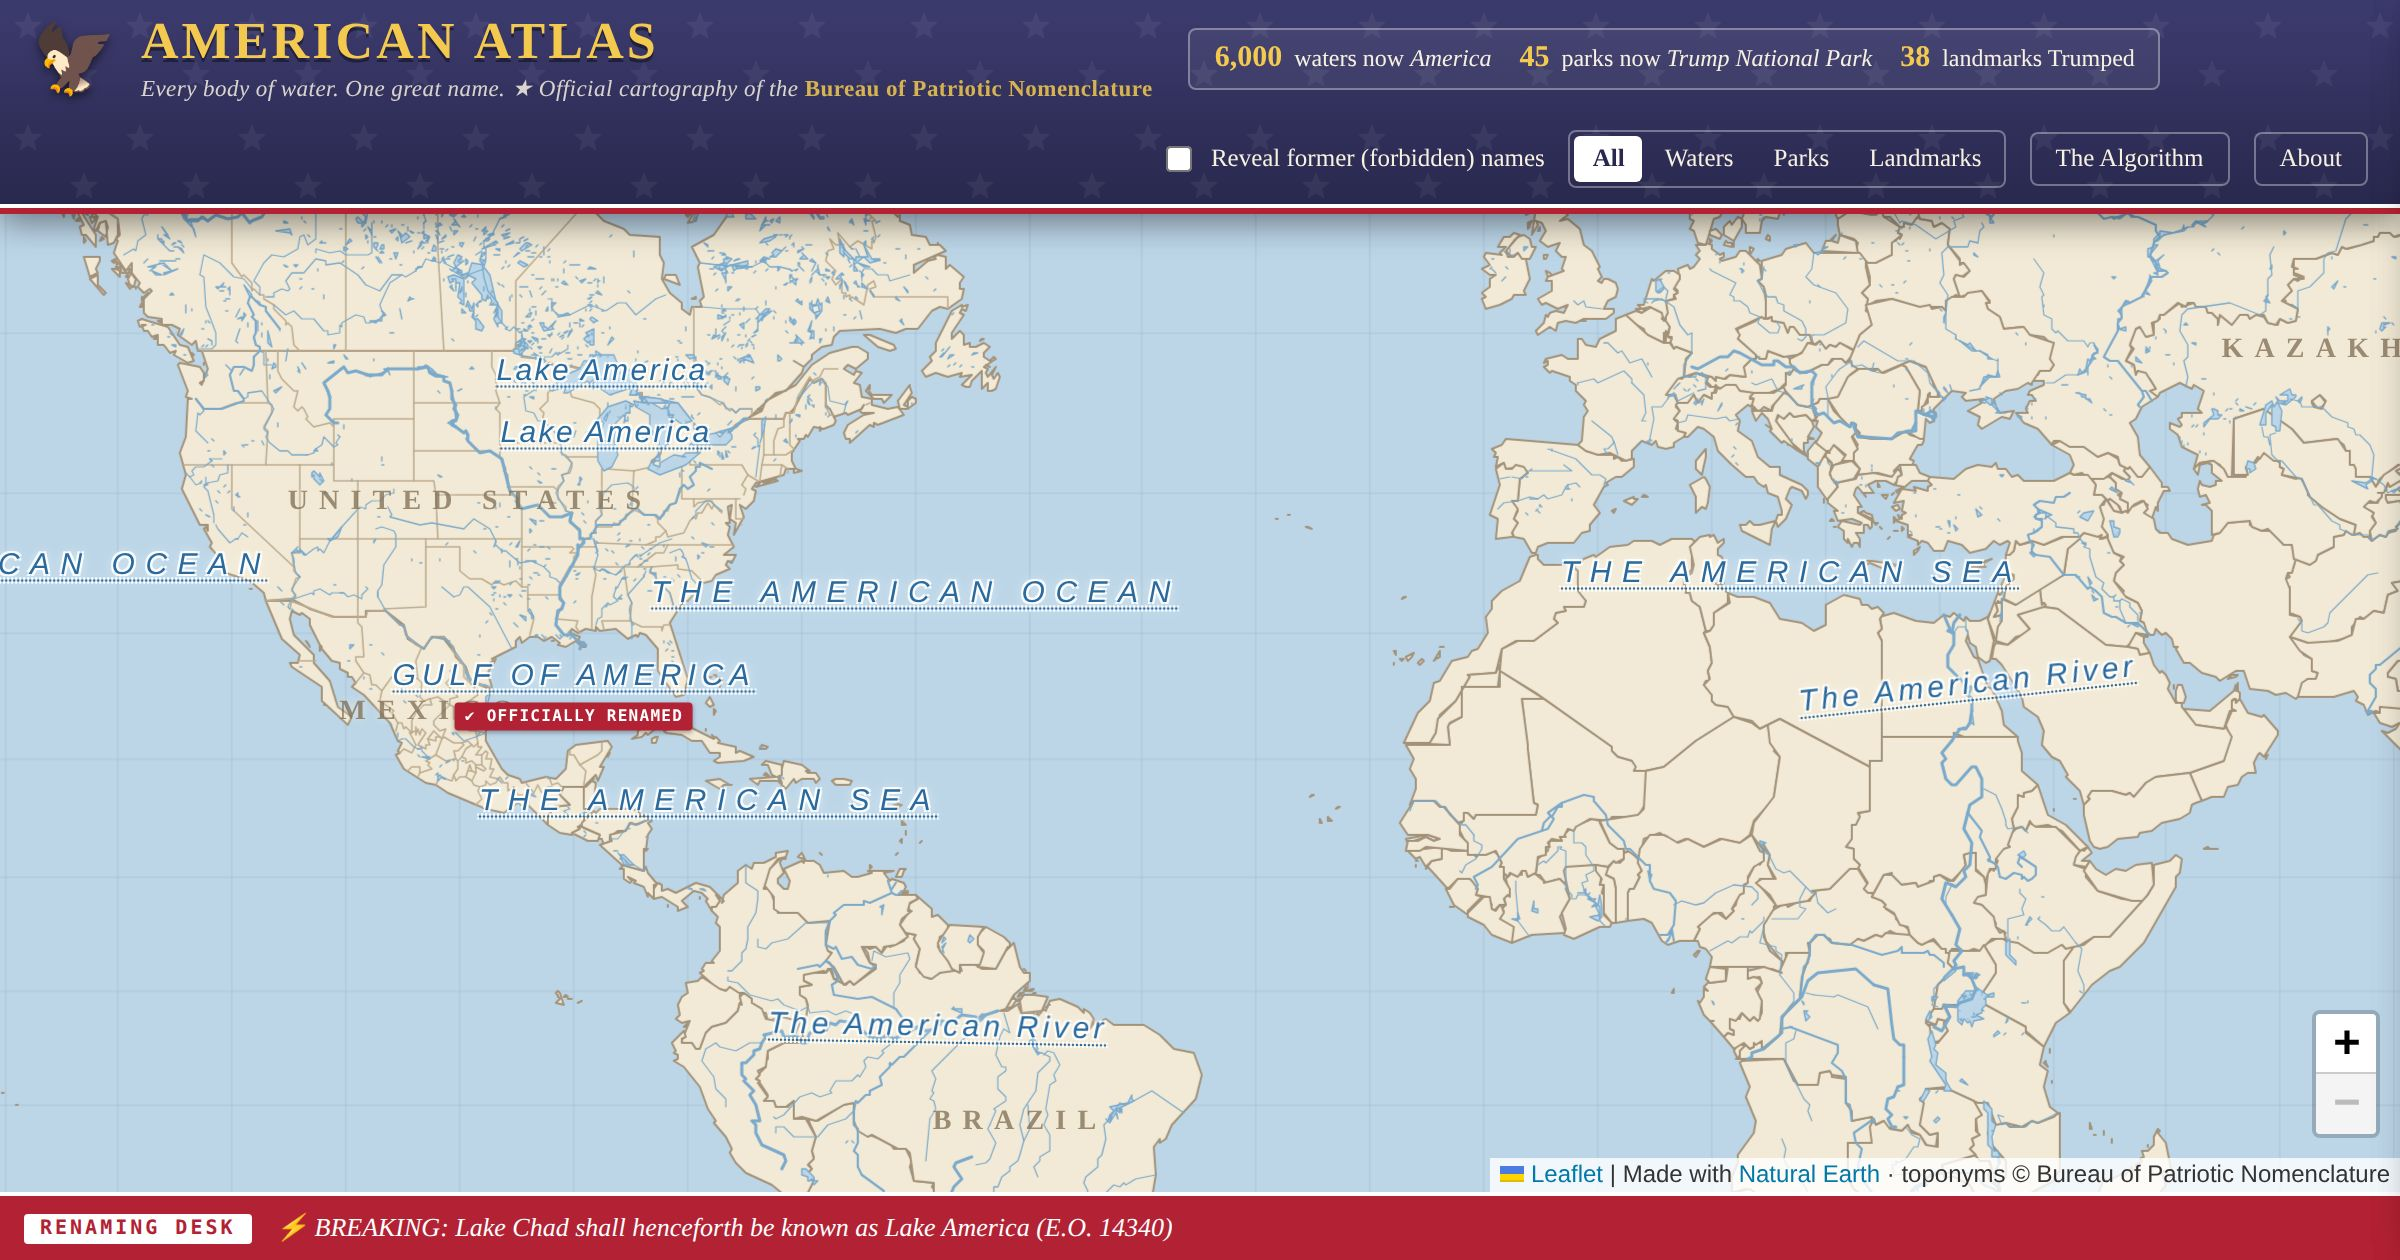
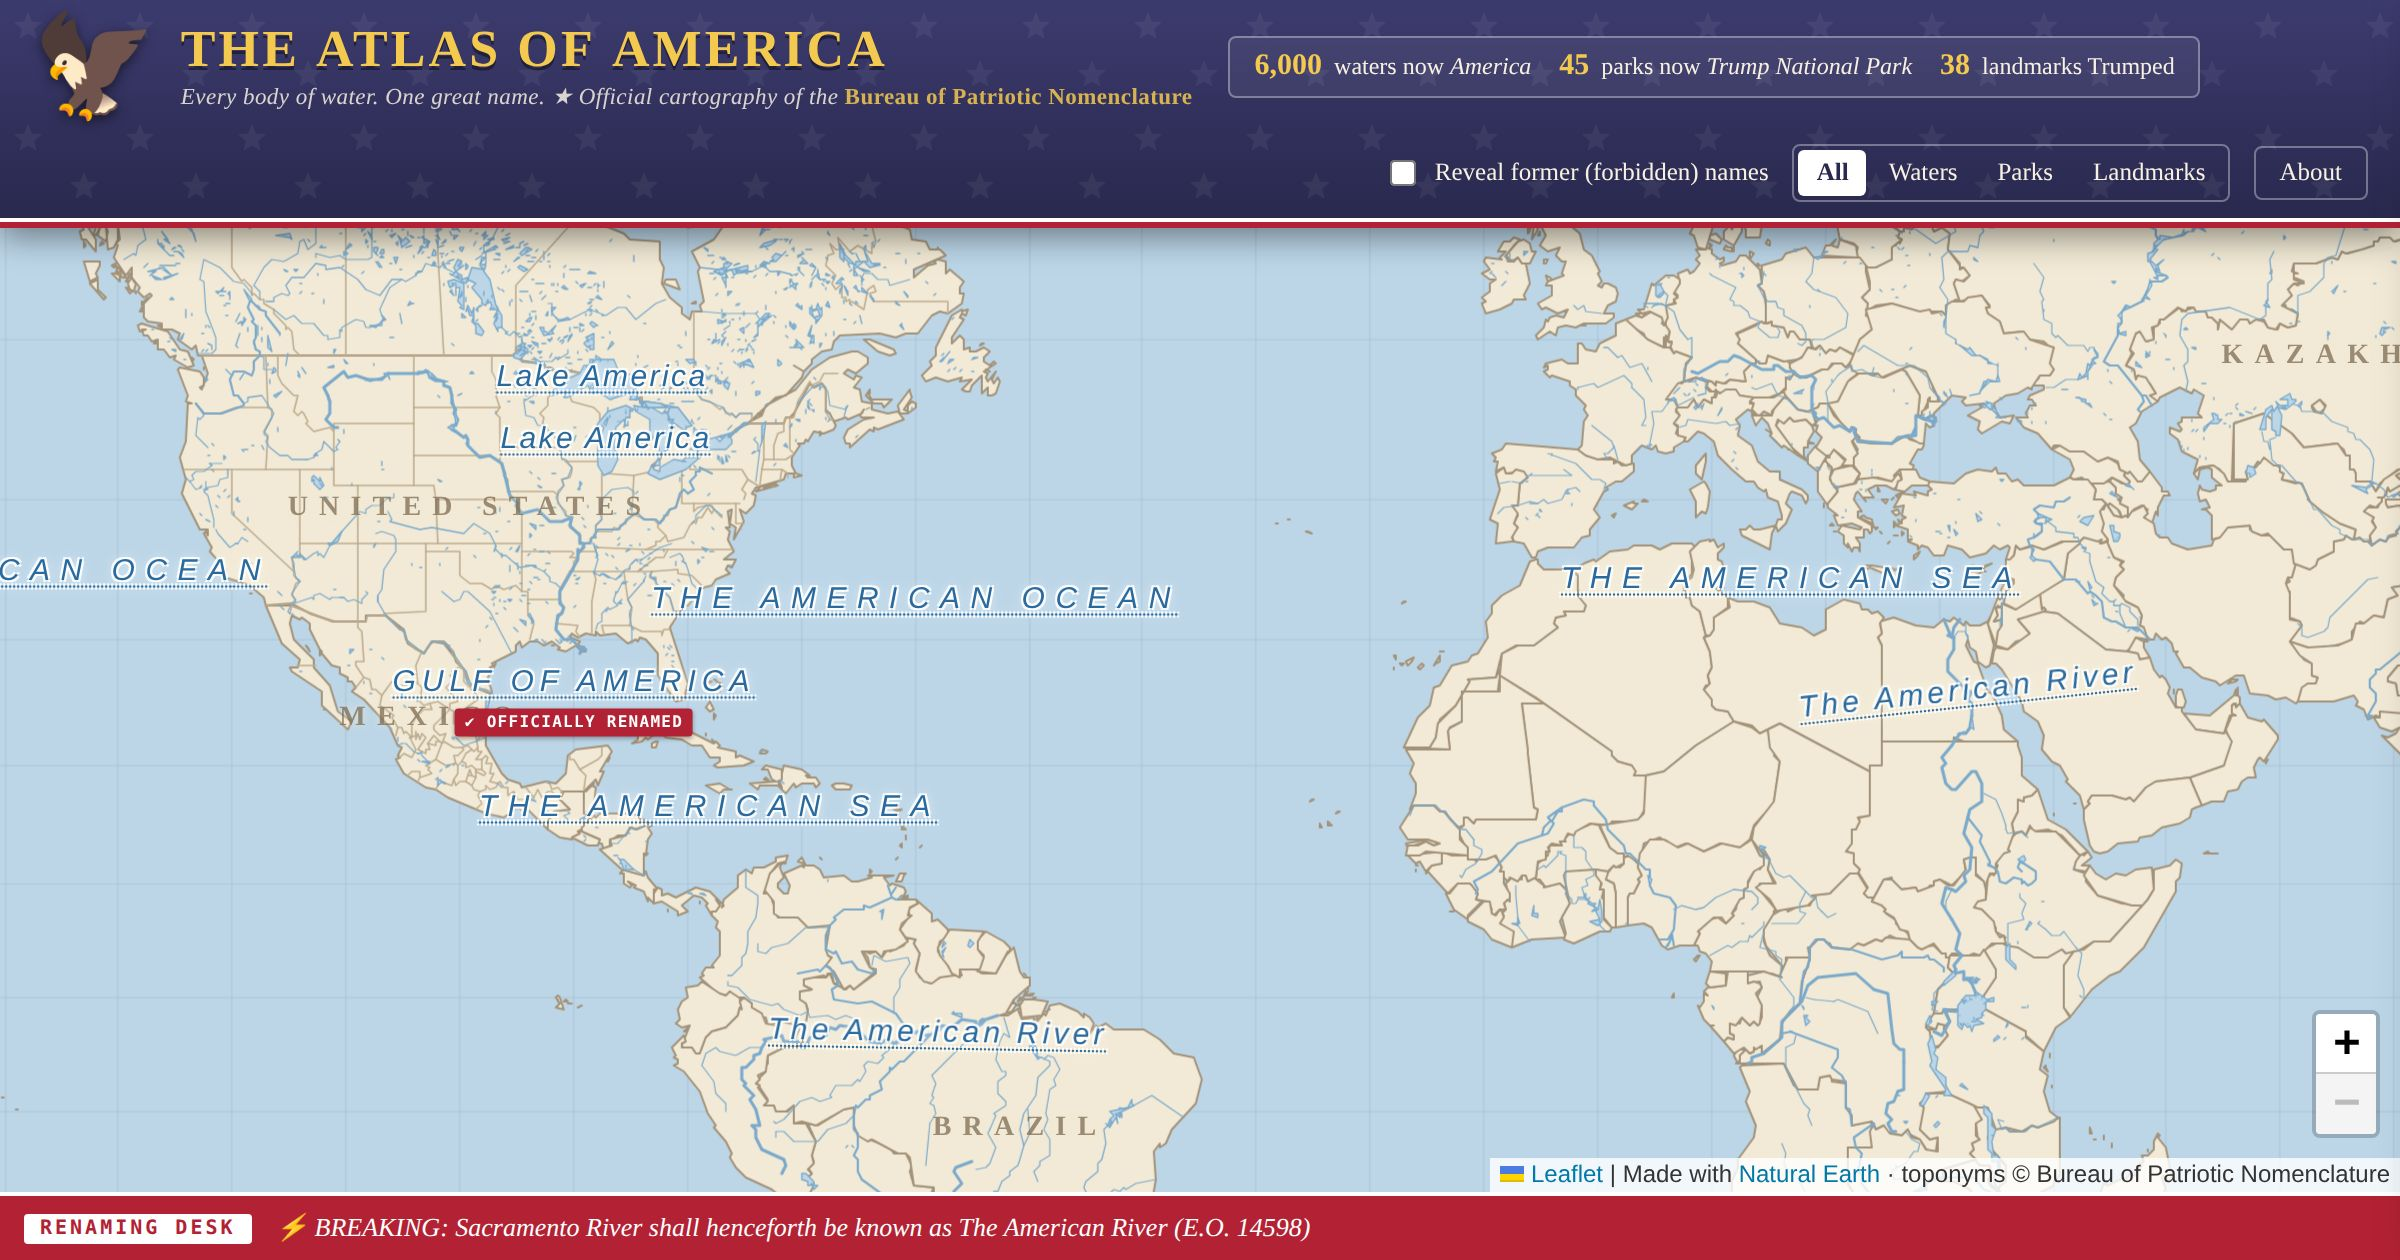
Rename the project to The Atlas of America; enlarge the eagle
With the whole world named America, the title becomes the punchline: a
map of the entire planet accurately titled as covering one country.
Renamed across the masthead, page title, Open Graph metadata, About
drawer, READMEs, and share image; the About drawer and README note the
former name as retired, since the Bureau renames its own publications
too, and the ticker announces the change. The masthead eagle grows from
34px to 50px (26 to 36 on small screens) to hold its own beside the
longer title.

Claude-Session: https://claude.ai/code/session_014wpHfLekYphUUJmT8RwJQb

diff --git a/american-atlas/app.js b/american-atlas/app.js
@@ -1,5 +1,6 @@
 /* =========================================================================
- * AMERICAN ATLAS — Bureau of Patriotic Nomenclature
+ * THE ATLAS OF AMERICA — Bureau of Patriotic Nomenclature
+ * (formerly the American Atlas; the Bureau renames its own publications too)
  * "One nation, one name, applied indiscriminately."
  *
  * The Atlas draws its entire basemap itself from vendored Natural Earth
@@ -213,7 +214,7 @@ loadJSON("data/land.json").then((fc) => {
     interactive: false,
     style: { color: LAND_LINE, weight: 1, fillColor: LAND_FILL, fillOpacity: 1 },
   }).addTo(map);
-}).catch((e) => console.warn("American Atlas: land failed", e));
+}).catch((e) => console.warn("Atlas of America: land failed", e));
 
 loadJSON("data/state-lines.json").then((fc) => {
   L.geoJSON(fc, {
@@ -222,7 +223,7 @@ loadJSON("data/state-lines.json").then((fc) => {
     interactive: false,
     style: { color: STATE_LINE, weight: 0.8, fill: false },
   }).addTo(map);
-}).catch((e) => console.warn("American Atlas: state lines failed", e));
+}).catch((e) => console.warn("Atlas of America: state lines failed", e));
 
 /* The only labels the Bureau left alone: countries and states.
  * Except Greenland. Greenland has been acquired. */
@@ -294,9 +295,9 @@ function refreshAdminLabels() {
   });
 }
 loadJSON("data/country-labels.json").then((fc) => addAdminLabels(fc, "admin-country", 3))
-  .catch((e) => console.warn("American Atlas: country labels failed", e));
+  .catch((e) => console.warn("Atlas of America: country labels failed", e));
 loadJSON("data/state-labels.json").then((fc) => addAdminLabels(fc, "admin-state", 5))
-  .catch((e) => console.warn("American Atlas: state labels failed", e));
+  .catch((e) => console.warn("Atlas of America: state labels failed", e));
 map.on("zoomend", refreshAdminLabels);
 
 /* ---------------- HYDROGRAPHY ----------------
@@ -349,7 +350,7 @@ loadJSON("data/lakes.json").then((fc) => {
     onEachFeature: onHydroFeature,
   }).addTo(map);
   updateWaterStat();
-}).catch((e) => console.warn("American Atlas: lakes failed", e));
+}).catch((e) => console.warn("Atlas of America: lakes failed", e));
 
 let riversLayerMajor = null, riversLayerMinor = null;
 loadJSON("data/rivers.json").then((fc) => {
@@ -369,7 +370,7 @@ loadJSON("data/rivers.json").then((fc) => {
   riversLayerMinor = L.geoJSON(minor, opts);
   refreshRivers();
   updateWaterStat();
-}).catch((e) => console.warn("American Atlas: rivers failed", e));
+}).catch((e) => console.warn("Atlas of America: rivers failed", e));
 
 function refreshRivers() {
   const z = map.getZoom();
@@ -478,7 +479,7 @@ loadJSON("data/places.geojson").then((fc) => {
   document.getElementById("stat-landmark").textContent = stats.landmark;
   startTicker(fc.features.map((gf) => gf.properties));
   maybeShowHint();
-}).catch((e) => console.warn("American Atlas: places failed", e));
+}).catch((e) => console.warn("Atlas of America: places failed", e));
 
 /* ---------------- FIRST-VISIT HINT ----------------
  * Nobody thinks to click a map label unless told. Tell them once. */
@@ -556,6 +557,7 @@ function startTicker(features) {
     if ((i + 1) % 5 === 0) tickerItems.push("🦅 BUREAU STATEMENT: " + BUREAU_STATEMENTS[si++ % BUREAU_STATEMENTS.length]);
   });
   tickerItems.push(
+    "⚡ BREAKING: The American Atlas shall henceforth be known as The Atlas of America (E.O. " + eoNumber({ name: "American Atlas" }) + ")",
     "⚡ BREAKING: The Bureau announces Phase 2: The World",
     "⚡ BREAKING: Greenland shall henceforth be known as Americaland (E.O. " + eoNumber({ name: "Greenland" }) + ")",
     "⚡ BREAKING: Antarctica shall henceforth be known as Trumparctica; penguins comply",

diff --git a/american-atlas/index.html b/american-atlas/index.html
@@ -3,12 +3,12 @@
 <head>
   <meta charset="utf-8">
   <meta name="viewport" content="width=device-width, initial-scale=1">
-  <title>American Atlas — Every Body of Water. One Great Name.</title>
+  <title>The Atlas of America — Every Body of Water. One Great Name.</title>
   <meta name="description" content="A satirical interactive map of the world in which every body of water is named America and every national park is Trump National Park. Parody.">
   <link rel="canonical" href="https://americanatlas.world/">
   <meta property="og:type" content="website">
-  <meta property="og:site_name" content="American Atlas">
-  <meta property="og:title" content="American Atlas — Every Body of Water. One Great Name.">
+  <meta property="og:site_name" content="The Atlas of America">
+  <meta property="og:title" content="The Atlas of America — Every Body of Water. One Great Name.">
   <meta property="og:description" content="A satirical interactive map of the world in which every body of water is named America and every national park is Trump National Park. Courtesy of the Bureau of Patriotic Nomenclature.">
   <meta property="og:url" content="https://americanatlas.world/">
   <meta property="og:image" content="https://americanatlas.world/og.jpg">
@@ -27,7 +27,7 @@
     <div class="mast-left">
       <span class="mast-eagle" aria-hidden="true">🦅</span>
       <div class="mast-titles">
-        <h1>American&nbsp;Atlas</h1>
+        <h1>The&nbsp;Atlas&nbsp;of&nbsp;America</h1>
         <p class="mast-tag">Every body of water. One great name.&nbsp;★&nbsp;Official cartography of the <strong>Bureau&nbsp;of&nbsp;Patriotic&nbsp;Nomenclature</strong></p>
       </div>
     </div>
@@ -58,9 +58,11 @@
 
   <aside id="about-drawer" class="drawer" aria-label="About this project">
     <button class="drawer-close" aria-label="Close">✕</button>
-    <h2>About the American Atlas</h2>
+    <h2>About The Atlas of America</h2>
     <p>In January 2025 the Gulf of Mexico was renamed the <i>Gulf of America</i>
-       by executive order. The <strong>American Atlas</strong> simply follows
+       by executive order. <strong>The Atlas of America</strong> (formerly
+       <s>the American Atlas</s> — the Bureau renames its own publications
+       too) simply follows
        that logic to its natural conclusion: every body of water on Earth is
        now named <i>America</i>, and every national park, monument, and
        landmark is now <i>Trump</i>-something. The Bureau began with North

diff --git a/american-atlas/style.css b/american-atlas/style.css
@@ -1,5 +1,5 @@
 /* =========================================================================
- * AMERICAN ATLAS — official Bureau stylesheet
+ * THE ATLAS OF AMERICA — official Bureau stylesheet
  * Palette: federal navy, decree gold, ribbon red, archival parchment.
  * ========================================================================= */
 
@@ -61,8 +61,9 @@ body {
 .mast-left { display: flex; align-items: center; gap: 12px; }
 
 .mast-eagle {
-  font-size: 34px;
-  filter: drop-shadow(0 2px 2px rgba(0,0,0,.5));
+  font-size: 50px;
+  line-height: 1;
+  filter: drop-shadow(0 2px 3px rgba(0,0,0,.5));
 }
 
 .mast-titles h1 {
@@ -177,7 +178,7 @@ body {
 }
 @media (max-width: 560px) {
   #masthead { gap: 8px 12px; padding: 7px 10px; }
-  .mast-eagle { font-size: 26px; }
+  .mast-eagle { font-size: 36px; }
   .mast-titles h1 { font-size: 20px; }
   .mast-tag { display: none; }
   .mast-controls { gap: 8px; font-size: 12px; }

diff --git a/README.md b/README.md
@@ -1,7 +1,7 @@
 # toys
 Assortment of tools, toys, and experiments
 
-- [**American Atlas**](american-atlas/) — a satirical interactive map of North America in which every body of water is named America and every national park is Trump National Park. Courtesy of the Bureau of Patriotic Nomenclature.
+- [**The Atlas of America**](american-atlas/) — a satirical interactive map of the world in which every body of water is named America and every national park is Trump National Park. Courtesy of the Bureau of Patriotic Nomenclature. Live at [americanatlas.world](https://americanatlas.world/).
 
 Each project lives on its own branch and is served as a Vercel branch
 deployment (the branch's `vercel.json` redirects the deployment root to

diff --git a/american-atlas/README.md b/american-atlas/README.md
@@ -1,4 +1,6 @@
-# American Atlas 🦅
+# The Atlas of America 🦅
+
+*(formerly the American Atlas — the Bureau renames its own publications too)*
 
 *Every body of water. One great name.*
 
